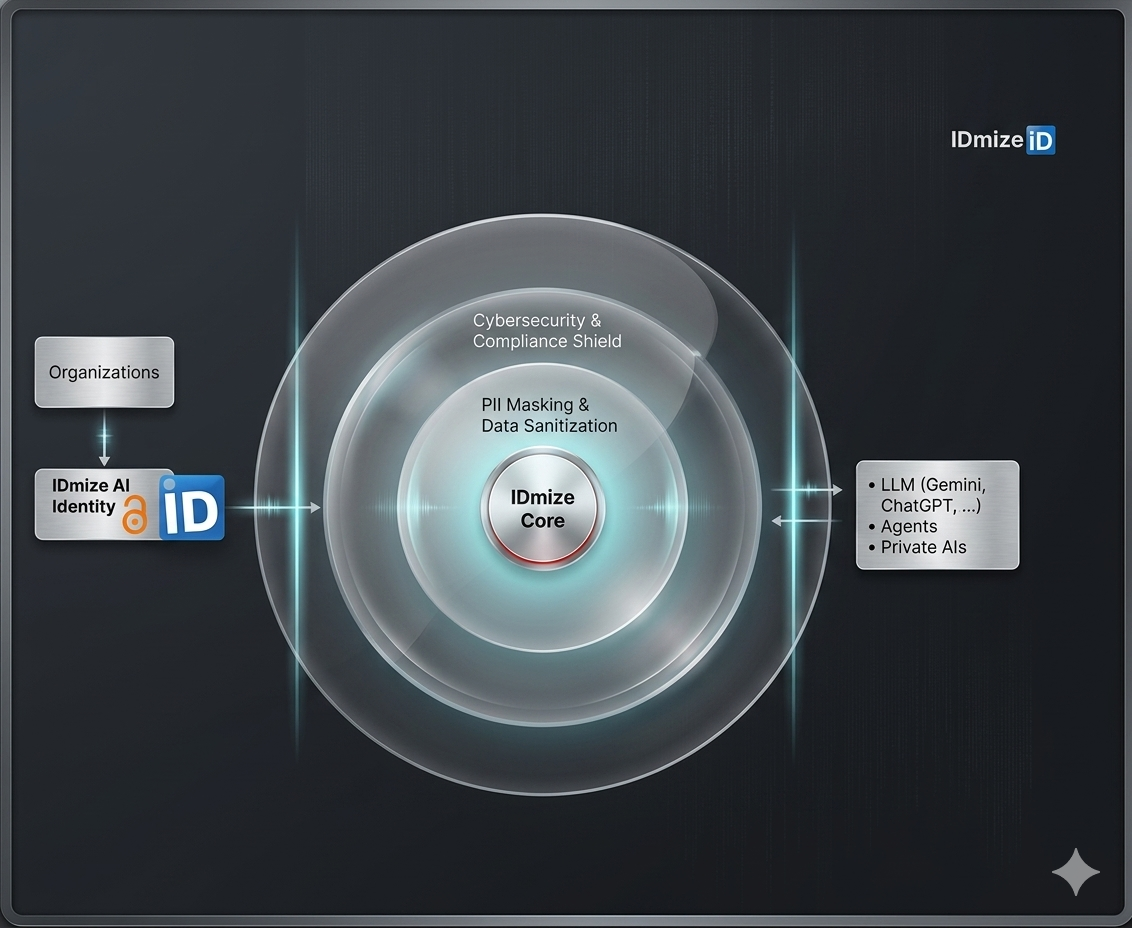
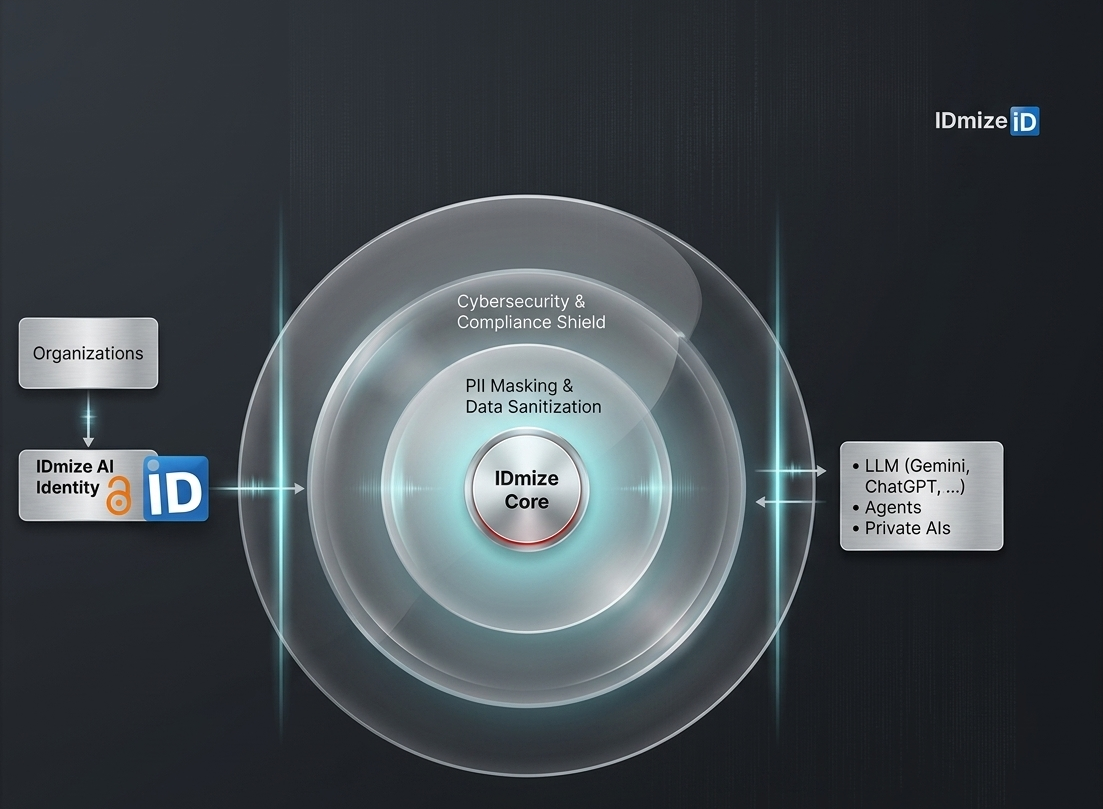
revisions done

Changed region(s): [[0.0, 0.0, 1.0, 1.0], [0.8323, 0.1236, 0.9556, 0.1854]]

diff --git a/src/components/CookieConsent.tsx b/src/components/CookieConsent.tsx
@@ -84,10 +84,7 @@ export default function CookieConsent() {
   }
 
   return (
-    <div className="fixed inset-0 z-[10002] flex items-center justify-center pointer-events-none p-4 sm:p-6">
-      {/* Backdrop Surface */}
-      <div className="fixed inset-0 bg-black/70 backdrop-blur-md pointer-events-auto" />
-
+    <div className="fixed bottom-0 left-0 right-0 z-[10002] pointer-events-none sm:bottom-4 sm:left-auto sm:right-4">
       <style>{`
         @keyframes scaleIn {
           from {
@@ -109,25 +106,40 @@ export default function CookieConsent() {
             transform: scale(1);
           }
         }
+        @keyframes slideUp {
+          from {
+            opacity: 0;
+            transform: translateY(100%);
+          }
+          to {
+            opacity: 1;
+            transform: translateY(0);
+          }
+        }
         .banner-animate {
           animation: scaleIn 0.4s cubic-bezier(0.16, 1, 0.3, 1);
         }
         .details-animate {
           animation: fadeIn 0.25s cubic-bezier(0.16, 1, 0.3, 1);
         }
+        @media (max-width: 640px) {
+          .banner-animate {
+            animation: slideUp 0.4s cubic-bezier(0.16, 1, 0.3, 1);
+          }
+        }
       `}</style>
 
-      <div className="pointer-events-auto w-full max-w-md banner-animate relative z-10">
+      <div className="pointer-events-auto w-full sm:max-w-md mx-auto sm:mx-0 sm:ml-auto banner-animate relative px-3 sm:px-0 pb-4 sm:pb-0">
         {/* Main Governance Layer Panel */}
-        <div className="relative bg-zinc-950/95 backdrop-blur-xl rounded-xl border border-zinc-800 shadow-[0_0_50px_0_rgba(0,0,0,0.8)] overflow-hidden">
+        <div className="relative bg-zinc-950/95 backdrop-blur-xl rounded-t-xl sm:rounded-xl border border-zinc-800 shadow-[0_0_50px_0_rgba(0,0,0,0.8)] sm:shadow-[0_0_50px_0_rgba(0,0,0,0.8)]">
           {/* Cryptographic Top Accent Scanning Strip */}
           <div className="absolute top-0 left-0 right-0 h-[1.5px] bg-gradient-to-r from-transparent via-blue-500/40 to-transparent" />
 
-          <div className="relative p-6">
+          <div className="relative p-4 sm:p-6">
             {/* Header Identity Row */}
             <div className="flex items-center justify-between mb-4">
               <div className="flex items-center gap-3">
-                <div className="w-8 h-8 rounded-lg bg-blue-500/10 border border-blue-500/20 flex items-center justify-center">
+                <div className="w-8 h-8 rounded-lg bg-blue-500/10 border border-blue-500/20 flex items-center justify-center flex-shrink-0">
                   <Cookie className="w-4 h-4 text-blue-400 stroke-[1.5]" />
                 </div>
                 <div>
@@ -138,108 +150,114 @@ export default function CookieConsent() {
               </div>
               <button
                 onClick={() => setShowBanner(false)}
-                className="text-zinc-500 hover:text-zinc-300 transition-colors p-1.5 rounded-lg hover:bg-zinc-900/50 border border-transparent hover:border-zinc-800"
+                className="text-zinc-500 hover:text-zinc-300 transition-colors p-1.5 rounded-lg hover:bg-zinc-900/50 border border-transparent hover:border-zinc-800 flex-shrink-0"
               >
                 <X size={14} />
               </button>
             </div>
 
-            {/* Platform Intent Copy */}
-            <p className="text-xs text-zinc-400 leading-relaxed mb-5 font-normal">
-              IDmize platform instances utilize identity primitives. Essential data state components remain permanently active inside your local environment, while telemetry parameters require permission verification.
-            </p>
+            {/* Scrollable content area - only this part scrolls if needed */}
+            <div className="max-h-[50vh] sm:max-h-[60vh] overflow-y-auto mb-4">
+              {/* Platform Intent Copy */}
+              <p className="text-xs text-zinc-400 leading-relaxed mb-5 font-normal">
+                IDmize platform instances utilize identity primitives. Essential data state components remain permanently active inside your local environment, while telemetry parameters require permission verification.
+              </p>
 
-            {/* Preference Configuration Activation Switch */}
-            <button
-              onClick={() => setShowDetails(!showDetails)}
-              className="flex items-center gap-2 text-[10px] font-mono uppercase tracking-wider text-blue-400 hover:text-blue-300 transition-colors mb-5 group"
-            >
-              <Settings size={11} className="animate-[spin_4s_linear_infinite]" />
-              <span>{showDetails ? 'Conceal Preferences' : 'Configure Granular Preferences'}</span>
-              {showDetails ? <ChevronUp size={11} /> : <ChevronDown size={11} />}
-            </button>
+              {/* Preference Configuration Activation Switch */}
+              <button
+                onClick={() => setShowDetails(!showDetails)}
+                className="flex items-center gap-2 text-[10px] font-mono uppercase tracking-wider text-blue-400 hover:text-blue-300 transition-colors mb-5 group w-full sm:w-auto justify-center sm:justify-start"
+              >
+                <Settings size={11} className="animate-[spin_4s_linear_infinite] flex-shrink-0" />
+                <span className="text-[9px] sm:text-[10px]">{showDetails ? 'Conceal Preferences' : 'Configure Granular Preferences'}</span>
+                {showDetails ? <ChevronUp size={11} className="flex-shrink-0" /> : <ChevronDown size={11} className="flex-shrink-0" />}
+              </button>
 
-            {/* Granular Framework Parameters Checklist */}
-            {showDetails && (
-              <div className="details-animate mb-5 space-y-2 max-h-[190px] overflow-y-auto pr-1 selection:bg-zinc-800">
-                {(Object.keys(cookieDescriptions) as Array<keyof typeof cookieDescriptions>).map(
-                  (type) => (
-                    <label
-                      key={type}
-                      className="flex items-start gap-3 p-3 rounded-lg bg-zinc-900/40 hover:bg-zinc-900/80 transition-all cursor-pointer group border border-zinc-900 hover:border-zinc-800"
-                    >
-                      <input
-                        type="checkbox"
-                        checked={cookies[type]}
-                        onChange={() => handleToggleCookie(type)}
-                        disabled={type === 'essential'}
-                        className={`mt-0.5 w-3.5 h-3.5 rounded border transition-all ${
-                          type === 'essential'
-                            ? 'bg-zinc-800 border-zinc-700 text-zinc-600 cursor-not-allowed'
-                            : 'border-zinc-700 bg-transparent cursor-pointer hover:border-blue-500'
-                        } ${cookies[type] && type !== 'essential' ? 'bg-blue-600 border-blue-500' : ''}`}
-                      />
-                      <div className="flex-1 min-w-0">
-                        <div className="flex items-center gap-2 mb-1">
-                          <span className="text-[11px] font-medium text-zinc-300 group-hover:text-zinc-200 transition-colors">
-                            {cookieDescriptions[type].title}
-                          </span>
-                          {type === 'essential' && (
-                            <span className="text-[8px] font-mono tracking-wider bg-blue-500/10 text-blue-400 px-1.5 py-0.5 border border-blue-500/20 rounded">
-                              SYSTEM_MANDATORY
+              {/* Granular Framework Parameters Checklist */}
+              {showDetails && (
+                <div className="details-animate mb-5 space-y-2 max-h-[190px] overflow-y-auto pr-1 selection:bg-zinc-800">
+                  {(Object.keys(cookieDescriptions) as Array<keyof typeof cookieDescriptions>).map(
+                    (type) => (
+                      <label
+                        key={type}
+                        className="flex items-start gap-3 p-3 rounded-lg bg-zinc-900/40 hover:bg-zinc-900/80 transition-all cursor-pointer group border border-zinc-900 hover:border-zinc-800"
+                      >
+                        <input
+                          type="checkbox"
+                          checked={cookies[type]}
+                          onChange={() => handleToggleCookie(type)}
+                          disabled={type === 'essential'}
+                          className={`mt-0.5 w-3.5 h-3.5 rounded border transition-all flex-shrink-0 ${
+                            type === 'essential'
+                              ? 'bg-zinc-800 border-zinc-700 text-zinc-600 cursor-not-allowed'
+                              : 'border-zinc-700 bg-transparent cursor-pointer hover:border-blue-500'
+                          } ${cookies[type] && type !== 'essential' ? 'bg-blue-600 border-blue-500' : ''}`}
+                        />
+                        <div className="flex-1 min-w-0">
+                          <div className="flex flex-wrap items-center gap-2 mb-1">
+                            <span className="text-[11px] font-medium text-zinc-300 group-hover:text-zinc-200 transition-colors">
+                              {cookieDescriptions[type].title}
                             </span>
-                          )}
+                            {type === 'essential' && (
+                              <span className="text-[8px] font-mono tracking-wider bg-blue-500/10 text-blue-400 px-1.5 py-0.5 border border-blue-500/20 rounded whitespace-nowrap">
+                                SYSTEM_MANDATORY
+                              </span>
+                            )}
+                          </div>
+                          <p className="text-[10px] text-zinc-500 group-hover:text-zinc-400 transition-colors leading-relaxed">
+                            {cookieDescriptions[type].description}
+                          </p>
                         </div>
-                        <p className="text-[10px] text-zinc-500 group-hover:text-zinc-400 transition-colors leading-relaxed">
-                          {cookieDescriptions[type].description}
-                        </p>
-                      </div>
-                    </label>
-                  )
-                )}
-              </div>
-            )}
-
-            {/* Transaction Execution Actions */}
-            <div className="flex gap-2 justify-end pt-2">
-              {!showDetails ? (
-                <>
-                  <button
-                    onClick={handleRejectAll}
-                    className="px-3.5 py-2 text-[10px] font-mono uppercase tracking-wider text-zinc-400 bg-zinc-900/50 hover:bg-zinc-900 hover:text-zinc-200 rounded-md transition-all border border-zinc-800 hover:border-zinc-700"
-                  >
-                    Reject
-                  </button>
-                  <button
-                    onClick={handleAcceptAll}
-                    className="px-4 py-2 text-[10px] font-mono uppercase tracking-wider text-white bg-blue-600 hover:bg-blue-500 rounded-md transition-all shadow-md shadow-blue-600/10"
-                  >
-                    Accept All
-                  </button>
-                </>
-              ) : (
-                <>
-                  <button
-                    onClick={() => setShowDetails(false)}
-                    className="px-3.5 py-2 text-[10px] font-mono uppercase tracking-wider text-zinc-400 bg-zinc-900/50 hover:bg-zinc-900 rounded-md transition-all border border-zinc-800"
-                  >
-                    Cancel
-                  </button>
-                  <button
-                    onClick={handleSavePreferences}
-                    className="px-4 py-2 text-[10px] font-mono uppercase tracking-wider text-white bg-blue-600 hover:bg-blue-500 rounded-md transition-all"
-                  >
-                    Save Matrix
-                  </button>
-                </>
+                      </label>
+                    )
+                  )}
+                </div>
               )}
             </div>
 
-            {/* Audit Status Footer Ledger Indicator */}
-            <div className="mt-5 pt-3 border-t border-zinc-900 flex items-center justify-center">
-              <p className="text-[8px] font-mono text-zinc-600 tracking-wider">
-                // OVERRIDE ACTIVE: DISPLAY STATE RECORDED AS ALWAYS ON_OPEN
-              </p>
+            {/* Fixed bottom section - always visible */}
+            <div>
+              {/* Transaction Execution Actions */}
+              <div className="flex gap-2 pt-2 flex-col sm:flex-row">
+                {!showDetails ? (
+                  <>
+                    <button
+                      onClick={handleRejectAll}
+                      className="flex-1 px-3.5 py-2.5 sm:py-2 text-[10px] font-mono uppercase tracking-wider text-zinc-400 bg-zinc-900/50 hover:bg-zinc-900 hover:text-zinc-200 rounded-md transition-all border border-zinc-800 hover:border-zinc-700"
+                    >
+                      Reject
+                    </button>
+                    <button
+                      onClick={handleAcceptAll}
+                      className="flex-1 px-4 py-2.5 sm:py-2 text-[10px] font-mono uppercase tracking-wider text-white bg-blue-600 hover:bg-blue-500 rounded-md transition-all shadow-md shadow-blue-600/10"
+                    >
+                      Accept All
+                    </button>
+                  </>
+                ) : (
+                  <>
+                    <button
+                      onClick={() => setShowDetails(false)}
+                      className="flex-1 px-3.5 py-2.5 sm:py-2 text-[10px] font-mono uppercase tracking-wider text-zinc-400 bg-zinc-900/50 hover:bg-zinc-900 rounded-md transition-all border border-zinc-800"
+                    >
+                      Cancel
+                    </button>
+                    <button
+                      onClick={handleSavePreferences}
+                      className="flex-1 px-4 py-2.5 sm:py-2 text-[10px] font-mono uppercase tracking-wider text-white bg-blue-600 hover:bg-blue-500 rounded-md transition-all"
+                    >
+                      Save Matrix
+                    </button>
+                  </>
+                )}
+              </div>
+
+              {/* Audit Status Footer Ledger Indicator */}
+              <div className="mt-5 pt-3 border-t border-zinc-900 flex items-center justify-center">
+                <p className="text-[8px] font-mono text-zinc-600 tracking-wider text-center px-2">
+                  // OVERRIDE ACTIVE: DISPLAY STATE RECORDED AS ALWAYS ON_OPEN
+                </p>
+              </div>
             </div>
           </div>
         </div>

diff --git a/src/components/IDmizePlatform.tsx b/src/components/IDmizePlatform.tsx
@@ -218,7 +218,7 @@ export default function IDmizePlatform() {
       badge: "Zero-Knowledge",
       illustration: (
         <div className="relative w-44 h-16 flex items-center justify-between px-4">
-          <div className="w-7 h-7 rounded-lg border border-zinc-800 bg-zinc-900 flex items-center justify-center text-[9px] font-mono text-zinc-400">LLM</div>
+          <div className="w-7 h-7 rounded-lg border border-zinc-800 bg-zinc-900 flex items-center justify-center text-[9px] font-mono text-zinc-400">CORE</div>
           
           <div className="absolute inset-x-11 top-1/2 h-[1px] bg-zinc-900 -translate-y-1/2">
             <motion.div 
@@ -236,7 +236,7 @@ export default function IDmizePlatform() {
             <Lock size={14} strokeWidth={1.5} />
           </motion.div>
           
-          <div className="w-7 h-7 rounded-lg border border-zinc-800 bg-zinc-900 flex items-center justify-center text-[9px] font-mono text-zinc-400">CORE</div>
+          <div className="w-7 h-7 rounded-lg border border-zinc-800 bg-zinc-900 flex items-center justify-center text-[9px] font-mono text-zinc-400">LLM</div>
         </div>
       )
     },

diff --git a/src/components/ImageDisplaySection.tsx b/src/components/ImageDisplaySection.tsx
@@ -138,7 +138,7 @@ const ArchitectureSection = ({ theme = 'dark' }: ArchitectureSectionProps) => {
             <div className={`absolute inset-0 rounded-full blur-[100px] ${glowBg}`} />
             <div className={`relative rounded-xl overflow-hidden border ${isDark ? 'border-white/10' : 'border-gray-200'} bg-gradient-to-br ${isDark ? 'from-white/[0.02] to-transparent' : 'from-gray-50 to-white'} backdrop-blur-sm p-3 sm:p-4 max-w-md mx-auto w-full`}>
               <img 
-                src="/flow.png" 
+                src="/flow2.png" 
                 alt="IDmize Architecture" 
                 className="relative z-10 w-full h-auto block drop-shadow-2xl" 
               />
